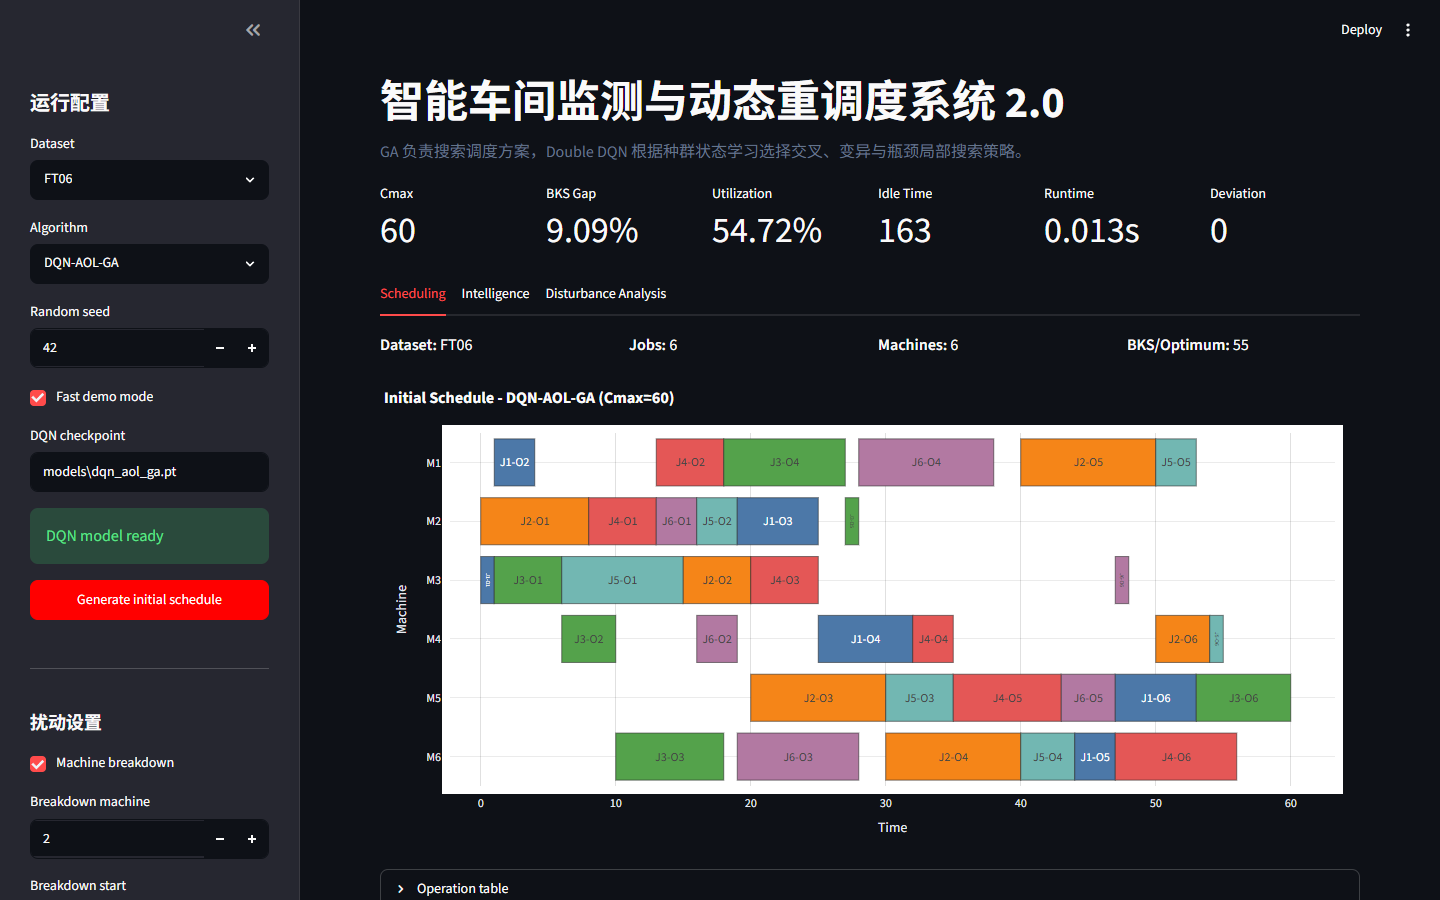
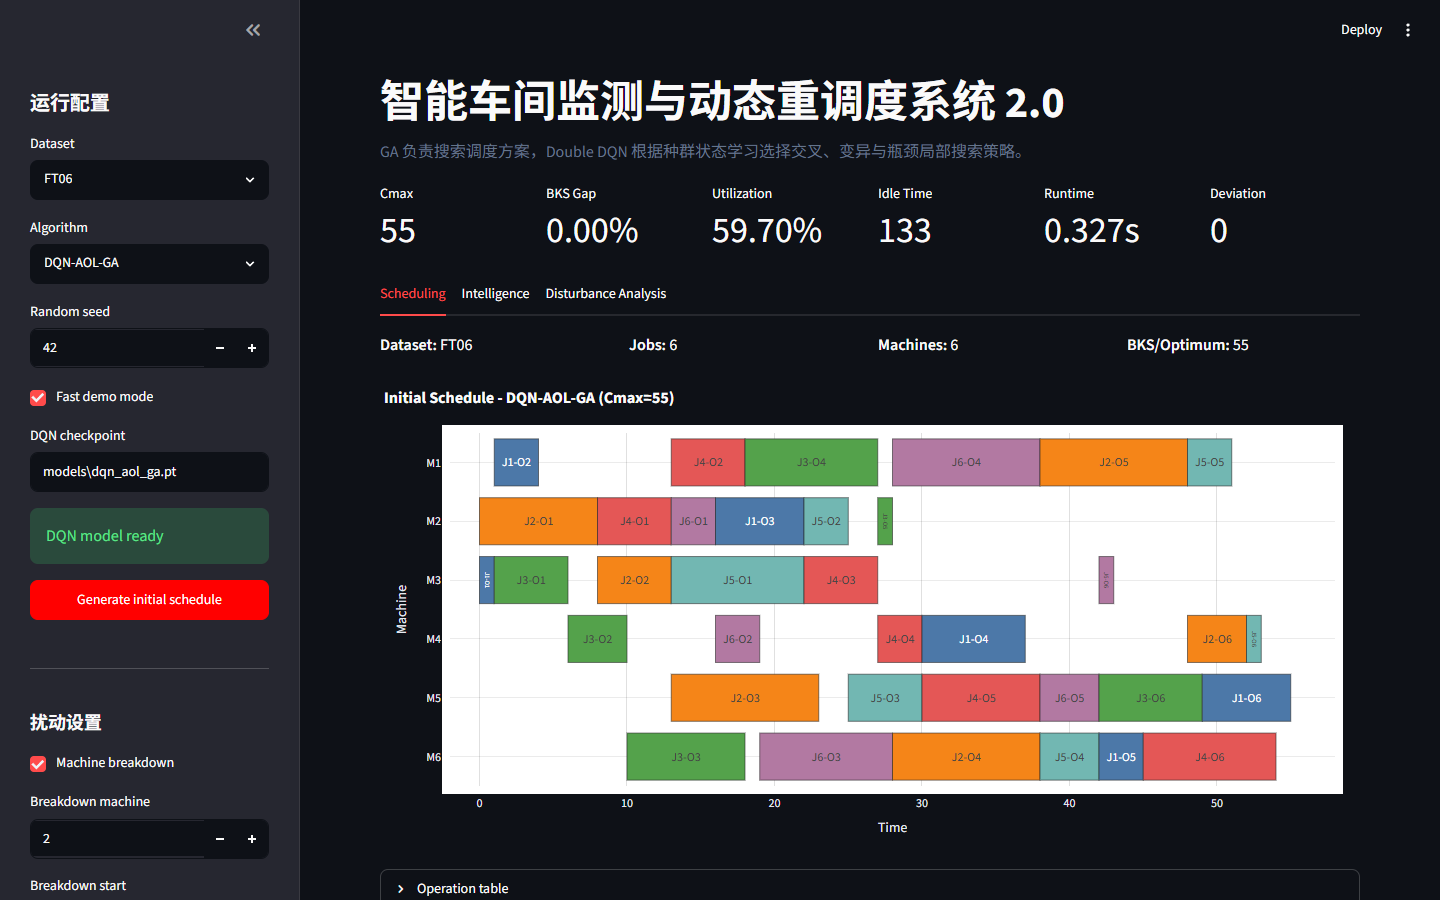
fix: stabilize DQN results with validated multistart inference

diff --git a/tests/test_algorithm_regression.py b/tests/test_algorithm_regression.py
@@ -1,7 +1,7 @@
 import pytest
 
 import algorithms.registry as registry
-from algorithms import run_algorithm
+from algorithms import AlgorithmResult, run_algorithm
 from data_loader import load_dataset
 from rl.dqn_agent import DQNAgent, DQNConfig
 from scheduler_core import validate_chromosome
@@ -25,11 +25,12 @@ def test_seeded_ft06_baselines_remain_feasible(name: str):
     assert result.makespan > 0
 
 
-def test_fast_mode_uses_the_same_search_budget_for_all_ga_variants(monkeypatch):
+def test_fast_mode_uses_the_same_total_search_budget_for_all_ga_variants(monkeypatch):
     calls: list[tuple[str, int, int]] = []
 
     def fake_ga(_jobs, _machines, *, population_size, generations, **_kwargs):
         calls.append(("GA", population_size, generations))
+        return AlgorithmResult("GA", [], [], 10)
 
     def fake_slga(
         _jobs,
@@ -43,6 +44,7 @@ def test_fast_mode_uses_the_same_search_budget_for_all_ga_variants(monkeypatch):
         calls.append(
             ("CP-AOL-SLGA" if cp_aol else "SLGA", population_size, generations)
         )
+        return AlgorithmResult("CP-AOL-SLGA" if cp_aol else "SLGA", [], [], 10)
 
     def fake_dqn(
         _jobs,
@@ -53,6 +55,7 @@ def test_fast_mode_uses_the_same_search_budget_for_all_ga_variants(monkeypatch):
         **_kwargs,
     ):
         calls.append(("DQN-AOL-GA", population_size, generations))
+        return AlgorithmResult("DQN-AOL-GA", [], [], 10)
 
     monkeypatch.setattr(registry, "run_ga", fake_ga)
     monkeypatch.setattr(registry, "run_slga", fake_slga)
@@ -63,9 +66,47 @@ def test_fast_mode_uses_the_same_search_budget_for_all_ga_variants(monkeypatch):
     for name in ("GA", "SLGA", "CP-AOL-SLGA", "DQN-AOL-GA"):
         registry.run_algorithm(name, jobs, 1, fast_mode=True, agent=agent)
 
-    assert calls == [
-        ("GA", 60, 100),
-        ("SLGA", 60, 100),
-        ("CP-AOL-SLGA", 60, 100),
-        ("DQN-AOL-GA", 60, 100),
-    ]
+    total_budgets: dict[str, int] = {}
+    for name, population_size, generations in calls:
+        total_budgets[name] = total_budgets.get(name, 0) + population_size * generations
+
+    assert total_budgets == {
+        "GA": 6000,
+        "SLGA": 6000,
+        "CP-AOL-SLGA": 6000,
+        "DQN-AOL-GA": 6000,
+    }
+
+
+def test_dqn_inference_uses_equal_budget_restarts_and_returns_the_best(monkeypatch):
+    calls: list[tuple[int, int, int]] = []
+    makespans = {42: 61, 43: 55, 44: 58}
+
+    def fake_dqn(
+        _jobs,
+        _machines,
+        *,
+        population_size,
+        generations,
+        random_seed,
+        **_kwargs,
+    ):
+        calls.append((population_size, generations, random_seed))
+        return AlgorithmResult(
+            "DQN-AOL-GA",
+            [],
+            [],
+            makespans[random_seed],
+            runtime=0.25,
+        )
+
+    monkeypatch.setattr(registry, "run_dqn_ga", fake_dqn)
+    agent = DQNAgent(DQNConfig(seed=7))
+
+    result = registry.run_algorithm(
+        "DQN-AOL-GA", [[(0, 1)]], 1, random_seed=42, fast_mode=True, agent=agent
+    )
+
+    assert calls == [(20, 100, 42), (20, 100, 43), (20, 100, 44)]
+    assert result.makespan == 55
+    assert result.runtime == pytest.approx(0.75)

diff --git a/algorithms/registry.py b/algorithms/registry.py
@@ -56,14 +56,34 @@ def run_algorithm(
     if name == "DQN-AOL-GA":
         if not isinstance(agent, DQNAgent):
             raise ValueError("DQN-AOL-GA requires a DQNAgent")
-        return run_dqn_ga(
-            jobs,
-            num_machines,
-            agent=agent,
-            population_size=population_size,
-            generations=generations,
-            random_seed=random_seed,
-            training=training,
-            **decode_kwargs,
-        )
+        if training:
+            return run_dqn_ga(
+                jobs,
+                num_machines,
+                agent=agent,
+                population_size=population_size,
+                generations=generations,
+                random_seed=random_seed,
+                training=True,
+                **decode_kwargs,
+            )
+
+        restart_count = 3
+        restart_population = population_size // restart_count
+        results = [
+            run_dqn_ga(
+                jobs,
+                num_machines,
+                agent=agent,
+                population_size=restart_population,
+                generations=generations,
+                random_seed=random_seed + restart,
+                training=False,
+                **decode_kwargs,
+            )
+            for restart in range(restart_count)
+        ]
+        best_result = min(results, key=lambda result: result.makespan)
+        best_result.runtime = sum(result.runtime for result in results)
+        return best_result
     raise ValueError(f"Unknown algorithm: {name}")

diff --git a/tests/test_benchmark.py b/tests/test_benchmark.py
@@ -1,4 +1,8 @@
+import experiments.benchmark as benchmark
+import pytest
+from algorithms import AlgorithmResult
 from experiments.benchmark import summarize_results
+from rl.dqn_agent import DQNAgent, DQNConfig
 
 
 def test_summarize_results_groups_runs_and_computes_bks_gap():
@@ -27,3 +31,32 @@ def test_summarize_results_uses_none_when_bks_is_unavailable():
     summary = summarize_results(rows, {"Custom 5x4": None})
 
     assert summary[0]["gap_to_bks_pct"] is None
+
+
+def test_benchmark_dqn_uses_equal_budget_restarts(monkeypatch):
+    calls: list[tuple[int, int, int]] = []
+
+    def fake_dqn(
+        _jobs,
+        _machines,
+        *,
+        population_size,
+        generations,
+        random_seed,
+        **_kwargs,
+    ):
+        calls.append((population_size, generations, random_seed))
+        return AlgorithmResult(
+            "DQN-AOL-GA", [], [], {42: 60, 43: 55, 44: 58}[random_seed], runtime=0.2
+        )
+
+    monkeypatch.setattr(benchmark, "run_dqn_ga", fake_dqn)
+    agent = DQNAgent(DQNConfig(seed=7))
+
+    result = benchmark._run_algorithm(
+        "DQN-AOL-GA", [[(0, 1)]], 1, 42, 60, 100, agent
+    )
+
+    assert calls == [(20, 100, 42), (20, 100, 43), (20, 100, 44)]
+    assert result.makespan == 55
+    assert result.runtime == pytest.approx(0.6)

diff --git a/experiments/benchmark.py b/experiments/benchmark.py
@@ -88,15 +88,23 @@ def _run_algorithm(
             cp_aol=True,
         )
     if name == "DQN-AOL-GA":
-        return run_dqn_ga(
-            jobs,
-            num_machines,
-            agent=agent,
-            population_size=population_size,
-            generations=generations,
-            random_seed=seed,
-            training=False,
-        )
+        restart_count = 3
+        restart_population = population_size // restart_count
+        results = [
+            run_dqn_ga(
+                jobs,
+                num_machines,
+                agent=agent,
+                population_size=restart_population,
+                generations=generations,
+                random_seed=seed + restart,
+                training=False,
+            )
+            for restart in range(restart_count)
+        ]
+        best_result = min(results, key=lambda result: result.makespan)
+        best_result.runtime = sum(result.runtime for result in results)
+        return best_result
     raise ValueError(f"Unknown algorithm: {name}")
 
 

diff --git a/README.md b/README.md
@@ -5,12 +5,13 @@
 ![Python](https://img.shields.io/badge/Python-3.10%2B-3776AB)
 ![PyTorch](https://img.shields.io/badge/Deep%20RL-Double%20DQN-EE4C2C)
 ![Streamlit](https://img.shields.io/badge/UI-Streamlit-FF4B4B)
-![Tests](https://img.shields.io/badge/tests-75%20passed-2EA44F)
+![Tests](https://img.shields.io/badge/tests-78%20passed-2EA44F)
 
 ## 项目亮点
 
 - 用神经网络拟合动作价值函数，完成从表格 Q-learning 到 Double DQN 的升级。
 - DQN 不直接生成调度，而是根据种群状态选择 GA 的交叉、变异和瓶颈局部搜索策略。
+- 推理阶段采用三个独立小种群并行思路，在相同总评估预算内取最优结果，降低单次随机波动。
 - 支持 FT06、LA01、LA02 与自定义 5x4 JSSP 数据。
 - 支持设备故障、紧急订单、已完成工序冻结和剩余工序动态重调度。
 - 提供甘特图、奖励/损失/epsilon、动作分布、Q 值、事件日志和结果导出。
@@ -153,7 +154,7 @@ flowchart LR
 
 ## 实验结果
 
-实验配置：三个 JSPLIB 实例、5 个随机种子（11/22/33/44/55）、种群规模 60、迭代 100。除 FIFO 外，所有算法使用相同搜索预算。表中为 `平均 Cmax ± 标准差`，越低越好。
+实验配置：三个 JSPLIB 实例、5 个随机种子（11/22/33/44/55）、总种群规模 60、迭代 100。DQN 将种群拆分为三个 20 个体的独立搜索，总评估次数仍为 `60×100`。除 FIFO 外，所有算法使用相同搜索预算。表中为 `平均 Cmax ± 标准差`，越低越好。
 
 | 算法 | FT06 | LA01 | LA02 |
 | --- | ---: | ---: | ---: |
@@ -161,15 +162,15 @@ flowchart LR
 | GA | 58.20 ± 0.75 | 746.40 ± 33.58 | 767.20 ± 28.73 |
 | SLGA（表格 Q-learning） | 57.80 ± 0.98 | 730.20 ± 14.63 | **739.80 ± 16.10** |
 | CP-AOL-SLGA | 57.80 ± 0.75 | 748.00 ± 19.18 | 749.00 ± 15.01 |
-| **DQN-AOL-GA** | **57.00 ± 1.67** | **721.00 ± 16.99** | 754.40 ± 21.36 |
+| **DQN-AOL-GA** | **56.20 ± 1.17** | **727.40 ± 11.64** | **738.40 ± 16.64** |
 
 | 数据集 | BKS | DQN 最优值 | DQN 平均 Gap | DQN 平均运行时间 |
 | --- | ---: | ---: | ---: | ---: |
-| FT06 | 55 | **55** | 3.64% | 0.2362 s |
-| LA01 | 666 | 700 | 8.26% | 0.3044 s |
-| LA02 | 655 | 734 | 15.18% | 0.3044 s |
+| FT06 | 55 | **55** | 2.18% | 0.3468 s |
+| LA01 | 666 | 711 | 9.22% | 0.4935 s |
+| LA02 | 655 | 718 | 12.73% | 0.4211 s |
 
-结果说明：DQN-AOL-GA 在 FT06 和 LA01 的平均 Cmax 最低；LA02 上 SLGA 更稳定，说明当前训练数据量和网络规模仍有提升空间。三个数据集的平均归一化 Gap 为 9.03%，略低于 SLGA 的 9.23%。完整原始数据见 [`outputs/experiments/static_raw.csv`](outputs/experiments/static_raw.csv) 与 [`static_summary.csv`](outputs/experiments/static_summary.csv)。
+结果说明：DQN-AOL-GA 在三个数据集上的平均 Cmax 均为最低。三个数据集的平均归一化 Gap 为 8.04%，低于 SLGA 的 9.23%。多启动会增加神经网络推理开销，但单次运行仍低于 0.5 秒。完整原始数据见 [`outputs/experiments/static_raw.csv`](outputs/experiments/static_raw.csv) 与 [`static_summary.csv`](outputs/experiments/static_summary.csv)。
 
 ### 动态故障验证
 
@@ -177,11 +178,11 @@ FT06、seed=42、M2 在 `t=20~40` 停机：
 
 | 指标 | 结果 |
 | --- | ---: |
-| 初始计划 Cmax | 60 |
-| 仅施加故障、不优化 Cmax | 74 |
-| DQN 动态重调度 Cmax | **62** |
-| 相对未优化方案降低 | **16.22%** |
-| 调度偏差 | 120 |
+| 初始计划 Cmax | 55 |
+| 仅施加故障、不优化 Cmax | 81 |
+| DQN 动态重调度 Cmax | **65** |
+| 相对未优化方案降低 | **19.75%** |
+| 调度偏差 | 226 |
 
 ## 快速开始
 
@@ -198,9 +199,9 @@ python -m pip install -r requirements.txt
 ```powershell
 python -m training.train_dqn `
   --datasets FT06 LA01 LA02 `
-  --episodes 45 `
+  --episodes 90 `
   --checkpoint models\dqn_aol_ga.pt `
-  --base-seed 84
+  --base-seed 42
 ```
 
 启动系统：

diff --git a/models/README.md b/models/README.md
@@ -1,11 +1,11 @@
 # DQN checkpoints
 
-PyTorch checkpoint files are generated locally and intentionally excluded from Git.
+The repository includes `dqn_aol_ga.pt`, the validated 90-episode CPU checkpoint used by the Streamlit demo and benchmark tables. Other candidate checkpoints remain excluded from Git.
 
 Train the default model from the repository root:
 
 ```powershell
-python -m training.train_dqn --datasets FT06 LA01 LA02 --episodes 45 --checkpoint models\dqn_aol_ga.pt --base-seed 84
+python -m training.train_dqn --datasets FT06 LA01 LA02 --episodes 90 --checkpoint models\dqn_aol_ga.pt --base-seed 42
 ```
 
 The checkpoint stores network weights, optimizer state, replay memory, epsilon, random-number states, DQN configuration, training datasets, episode count, and schema versions. Retrain the model if the state or action schema changes.